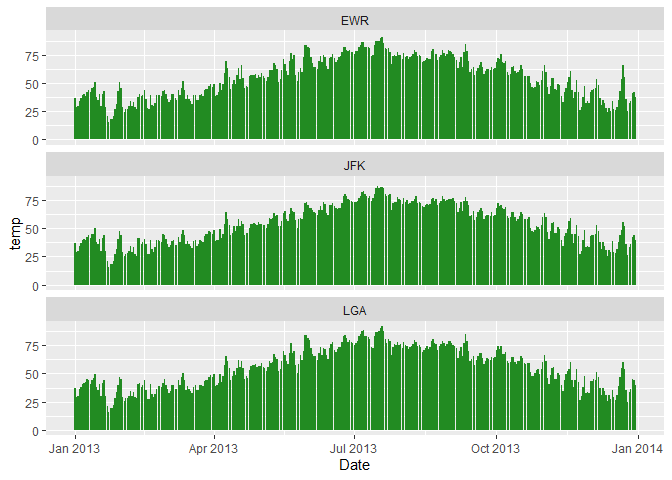
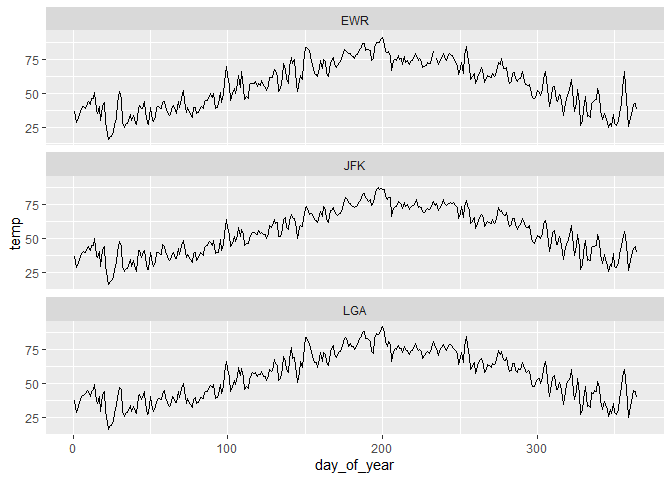
another update

diff --git a/README.md b/README.md
@@ -12,7 +12,7 @@ library(tidyverse)
     ## v ggplot2 3.2.1     v purrr   0.3.3
     ## v tibble  2.1.3     v dplyr   0.8.4
     ## v tidyr   1.0.2     v stringr 1.4.0
-    ## v readr   1.3.1     v forcats 0.4.0
+    ## v readr   1.3.1     v forcats 0.5.0
 
     ## -- Conflicts ----------------------------------------- tidyverse_conflicts() --
     ## x dplyr::filter() masks stats::filter()
@@ -31,34 +31,165 @@ library(lubridate)
 
 ``` r
 library(nycflights13)
-library(reshape2)
+
+myweather <- weather %>% mutate(day_of_year = yday(time_hour)) %>%
+  group_by(origin, day_of_year) %>%
+  summarize(temp = mean(temp)) %>%
+  ggplot(aes(x = day_of_year, y = temp)) +
+  geom_line() + facet_wrap( ~ origin, ncol = 1)
+myweather
 ```
-
-    ## 
-    ## Attaching package: 'reshape2'
-
-    ## The following object is masked from 'package:tidyr':
-    ## 
-    ##     smiths
-
-``` r
-myweather <- weather %>% mutate(day_of_year = yday(time_hour))
-myweather <-
-  myweather %>% mutate(Date = paste(month, day, "2013", sep = "/"))
-myweather$Date <- as.Date(myweather$Date, "%m/%d/%Y")
-mytemp <-
-  myweather %>% group_by(origin, Date) %>% summarise(temp = mean(temp))
-ggplot(mytemp, aes(x = Date, y = temp)) + geom_bar(stat = 'identity', fill = "forest green") + facet_wrap(~ origin, ncol = 1)
-```
-
-    ## Warning: Removed 1 rows containing missing values (position_stack).
 
 ![](Practice-Exam_files/figure-gfm/unnamed-chunk-1-1.png)<!-- -->
 
 ``` r
-df.wide <- pivot_wider(mytemp, names_from = Date,values_from = temp)
-myflights <-
-  flights %>% mutate(Date = paste(month, day, "2013", sep = "/"))
-myflights$Date <- as.Date(myflights$Date, "%m/%d/%Y")
-# myflights$Performance <- myflights$dep_delay < 60
+non_tidy <- weather %>% mutate(day_of_year = yday(time_hour)) %>%
+  group_by(origin, day_of_year) %>%
+  summarize(temp = mean(temp)) %>%
+  pivot_wider(names_from = day_of_year, values_from = temp)
+non_tidy
 ```
+
+    ## # A tibble: 3 x 365
+    ## # Groups:   origin [3]
+    ##   origin   `1`   `2`   `3`   `4`   `5`   `6`   `7`   `8`   `9`  `10`  `11`  `12`
+    ##   <chr>  <dbl> <dbl> <dbl> <dbl> <dbl> <dbl> <dbl> <dbl> <dbl> <dbl> <dbl> <dbl>
+    ## 1 EWR     36.8  28.7  29.6  34.3  36.6  39.9  40.3  38.6  42.1  43.6  42.0  46.0
+    ## 2 JFK     36.9  28.6  30.1  34.7  36.8  39.3  40.1  39.4  42.7  43.6  41.3  45.0
+    ## 3 LGA     37.2  28.8  30.3  35.8  38.3  41.0  41.4  42.3  44.9  44.3  40.3  43.9
+    ## # ... with 352 more variables: `13` <dbl>, `14` <dbl>, `15` <dbl>, `16` <dbl>,
+    ## #   `17` <dbl>, `18` <dbl>, `19` <dbl>, `20` <dbl>, `21` <dbl>, `22` <dbl>,
+    ## #   `23` <dbl>, `24` <dbl>, `25` <dbl>, `26` <dbl>, `27` <dbl>, `28` <dbl>,
+    ## #   `29` <dbl>, `30` <dbl>, `31` <dbl>, `32` <dbl>, `33` <dbl>, `34` <dbl>,
+    ## #   `35` <dbl>, `36` <dbl>, `37` <dbl>, `38` <dbl>, `39` <dbl>, `40` <dbl>,
+    ## #   `41` <dbl>, `42` <dbl>, `43` <dbl>, `44` <dbl>, `45` <dbl>, `46` <dbl>,
+    ## #   `47` <dbl>, `48` <dbl>, `49` <dbl>, `50` <dbl>, `51` <dbl>, `52` <dbl>,
+    ## #   `53` <dbl>, `54` <dbl>, `55` <dbl>, `56` <dbl>, `57` <dbl>, `58` <dbl>,
+    ## #   `59` <dbl>, `60` <dbl>, `61` <dbl>, `62` <dbl>, `63` <dbl>, `64` <dbl>,
+    ## #   `65` <dbl>, `66` <dbl>, `67` <dbl>, `68` <dbl>, `69` <dbl>, `70` <dbl>,
+    ## #   `71` <dbl>, `72` <dbl>, `73` <dbl>, `74` <dbl>, `75` <dbl>, `76` <dbl>,
+    ## #   `77` <dbl>, `78` <dbl>, `79` <dbl>, `80` <dbl>, `81` <dbl>, `82` <dbl>,
+    ## #   `83` <dbl>, `84` <dbl>, `85` <dbl>, `86` <dbl>, `87` <dbl>, `88` <dbl>,
+    ## #   `89` <dbl>, `90` <dbl>, `91` <dbl>, `92` <dbl>, `93` <dbl>, `94` <dbl>,
+    ## #   `95` <dbl>, `96` <dbl>, `97` <dbl>, `98` <dbl>, `99` <dbl>, `100` <dbl>,
+    ## #   `101` <dbl>, `102` <dbl>, `103` <dbl>, `104` <dbl>, `105` <dbl>,
+    ## #   `106` <dbl>, `107` <dbl>, `108` <dbl>, `109` <dbl>, `110` <dbl>,
+    ## #   `111` <dbl>, `112` <dbl>, ...
+
+``` r
+performance <- flights %>% mutate(day_of_year = yday(time_hour)) %>%
+  group_by(origin, day_of_year) %>%
+  summarize(performance = mean(dep_delay < 60, na.rm = T))
+performance
+```
+
+    ## # A tibble: 1,095 x 3
+    ## # Groups:   origin [3]
+    ##    origin day_of_year performance
+    ##    <chr>        <dbl>       <dbl>
+    ##  1 EWR              1       0.918
+    ##  2 EWR              2       0.837
+    ##  3 EWR              3       0.979
+    ##  4 EWR              4       0.935
+    ##  5 EWR              5       0.966
+    ##  6 EWR              6       0.95 
+    ##  7 EWR              7       0.921
+    ##  8 EWR              8       0.982
+    ##  9 EWR              9       0.976
+    ## 10 EWR             10       0.980
+    ## # ... with 1,085 more rows
+
+``` r
+w.summary <- weather %>% mutate(day_of_year = yday(time_hour)) %>%
+  group_by(origin, day_of_year) %>%
+  summarize(
+    precipitation = sum(precip, na.rm = T),
+    visibility = min(visib, na.rm = T),
+    windMean = mean(wind_speed, na.rm = T)
+  )
+w.summary
+```
+
+    ## # A tibble: 1,092 x 5
+    ## # Groups:   origin [3]
+    ##    origin day_of_year precipitation visibility windMean
+    ##    <chr>        <dbl>         <dbl>      <dbl>    <dbl>
+    ##  1 EWR              1             0         10    13.2 
+    ##  2 EWR              2             0         10    10.9 
+    ##  3 EWR              3             0         10     8.58
+    ##  4 EWR              4             0         10    14.0 
+    ##  5 EWR              5             0         10     9.40
+    ##  6 EWR              6             0          6     9.11
+    ##  7 EWR              7             0         10     7.34
+    ##  8 EWR              8             0          8     7.19
+    ##  9 EWR              9             0          6     5.99
+    ## 10 EWR             10             0         10     8.92
+    ## # ... with 1,082 more rows
+
+``` r
+mydata <- left_join(performance, w.summary)
+```
+
+    ## Joining, by = c("origin", "day_of_year")
+
+``` r
+mylm <-
+  lm(performance ~ origin + precipitation + visibility + windMean,
+     mydata)
+summary(mylm)
+```
+
+    ## 
+    ## Call:
+    ## lm(formula = performance ~ origin + precipitation + visibility + 
+    ##     windMean, data = mydata)
+    ## 
+    ## Residuals:
+    ##      Min       1Q   Median       3Q      Max 
+    ## -0.45572 -0.01734  0.01755  0.03704  0.18800 
+    ## 
+    ## Coefficients:
+    ##                 Estimate Std. Error t value Pr(>|t|)    
+    ## (Intercept)    0.8605210  0.0082091 104.825  < 2e-16 ***
+    ## originJFK      0.0200180  0.0052986   3.778 0.000167 ***
+    ## originLGA      0.0209328  0.0052113   4.017 6.31e-05 ***
+    ## precipitation -0.0531217  0.0077869  -6.822 1.49e-11 ***
+    ## visibility     0.0081510  0.0006977  11.682  < 2e-16 ***
+    ## windMean      -0.0010823  0.0005174  -2.092 0.036684 *  
+    ## ---
+    ## Signif. codes:  0 '***' 0.001 '**' 0.01 '*' 0.05 '.' 0.1 ' ' 1
+    ## 
+    ## Residual standard error: 0.0698 on 1086 degrees of freedom
+    ##   (3 observations deleted due to missingness)
+    ## Multiple R-squared:  0.2532, Adjusted R-squared:  0.2498 
+    ## F-statistic: 73.65 on 5 and 1086 DF,  p-value: < 2.2e-16
+
+``` r
+ewr <- filter(mydata, origin == "EWR")
+ewr.lm <-
+  lm(performance ~ precipitation + visibility + windMean, ewr)
+summary(ewr.lm)
+```
+
+    ## 
+    ## Call:
+    ## lm(formula = performance ~ precipitation + visibility + windMean, 
+    ##     data = ewr)
+    ## 
+    ## Residuals:
+    ##      Min       1Q   Median       3Q      Max 
+    ## -0.32733 -0.03119  0.02363  0.04566  0.18642 
+    ## 
+    ## Coefficients:
+    ##                 Estimate Std. Error t value Pr(>|t|)    
+    ## (Intercept)    0.8658870  0.0134506  64.375  < 2e-16 ***
+    ## precipitation -0.0512542  0.0133869  -3.829 0.000152 ***
+    ## visibility     0.0086600  0.0013316   6.504 2.62e-10 ***
+    ## windMean      -0.0020805  0.0008928  -2.330 0.020341 *  
+    ## ---
+    ## Signif. codes:  0 '***' 0.001 '**' 0.01 '*' 0.05 '.' 0.1 ' ' 1
+    ## 
+    ## Residual standard error: 0.07406 on 360 degrees of freedom
+    ##   (1 observation deleted due to missingness)
+    ## Multiple R-squared:  0.2366, Adjusted R-squared:  0.2302 
+    ## F-statistic: 37.19 on 3 and 360 DF,  p-value: < 2.2e-16
